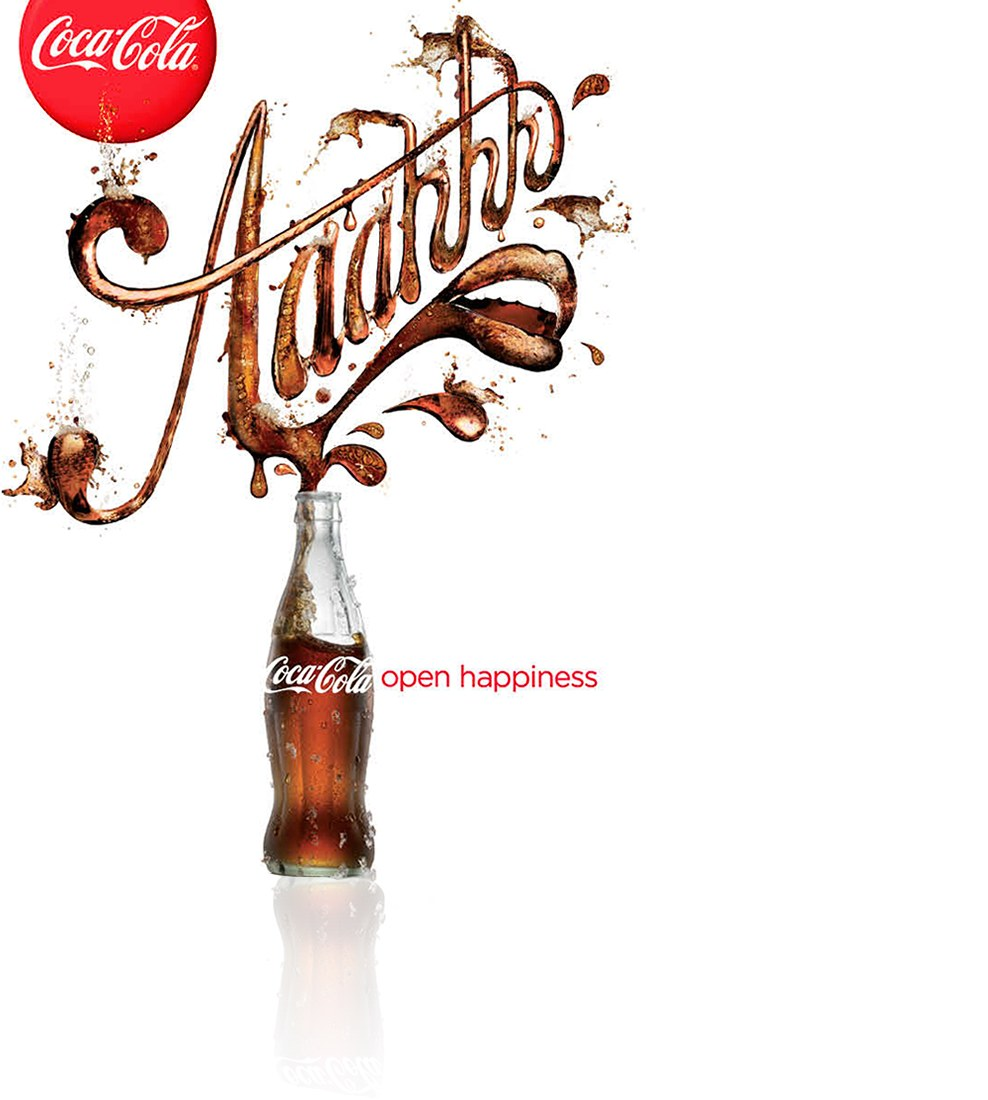
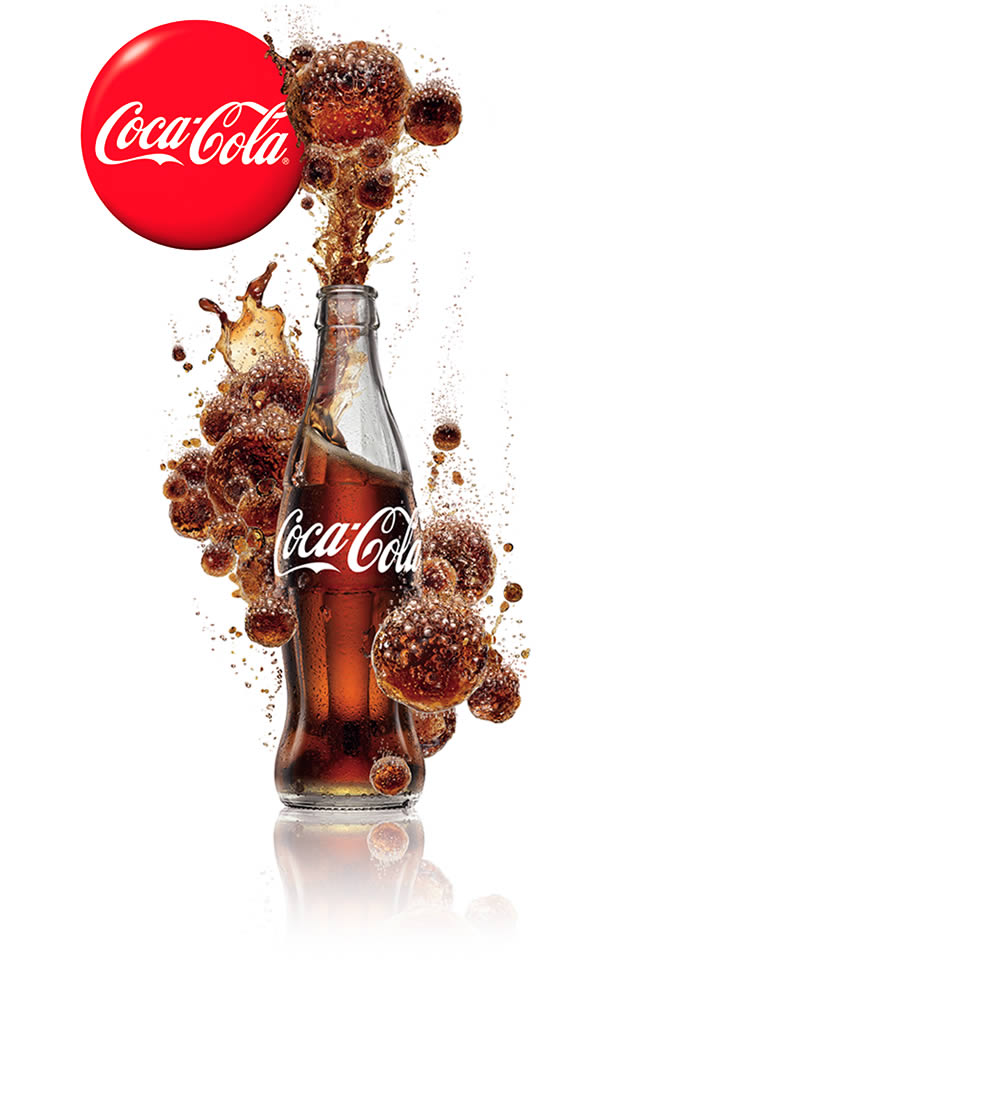
New login page background image.

Changed region(s): [[0.0, 0.0, 0.6377, 0.8964]]

diff --git a/public/stylesheets/coke.css b/public/stylesheets/coke.css
@@ -210,3 +210,6 @@ div.empty_playlist {
 	line-height: 13px;
 }
 
+#login_box {
+	top: 360px;
+}
